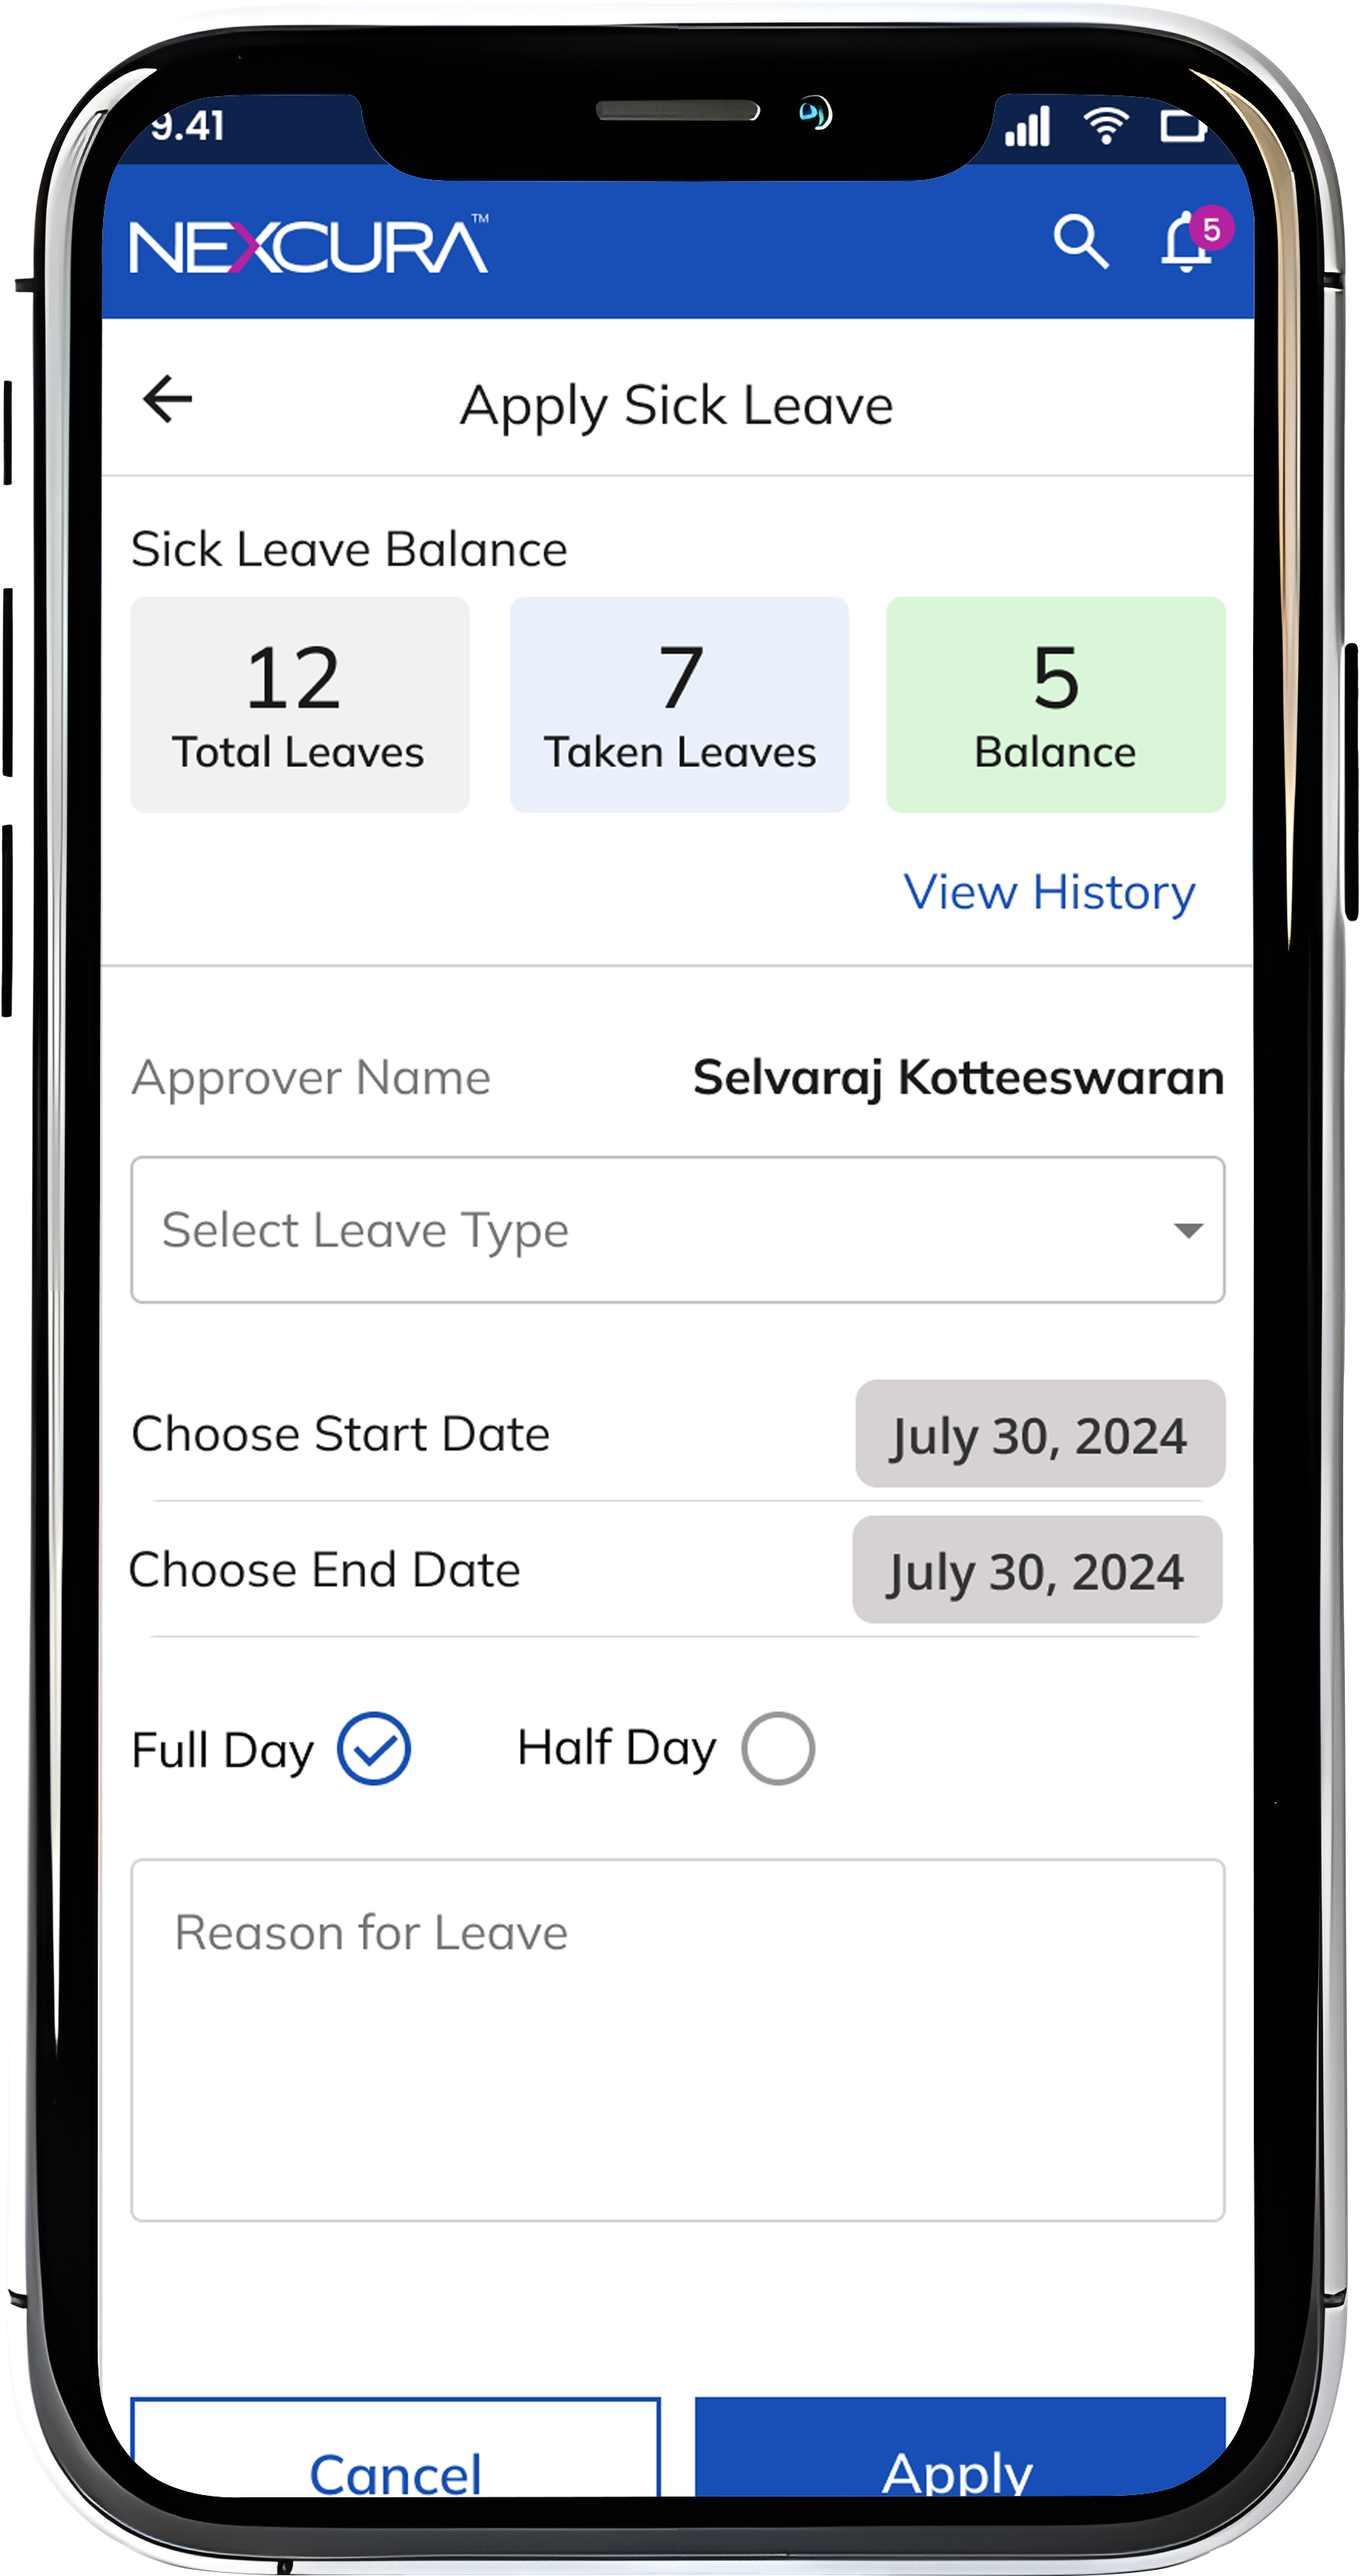
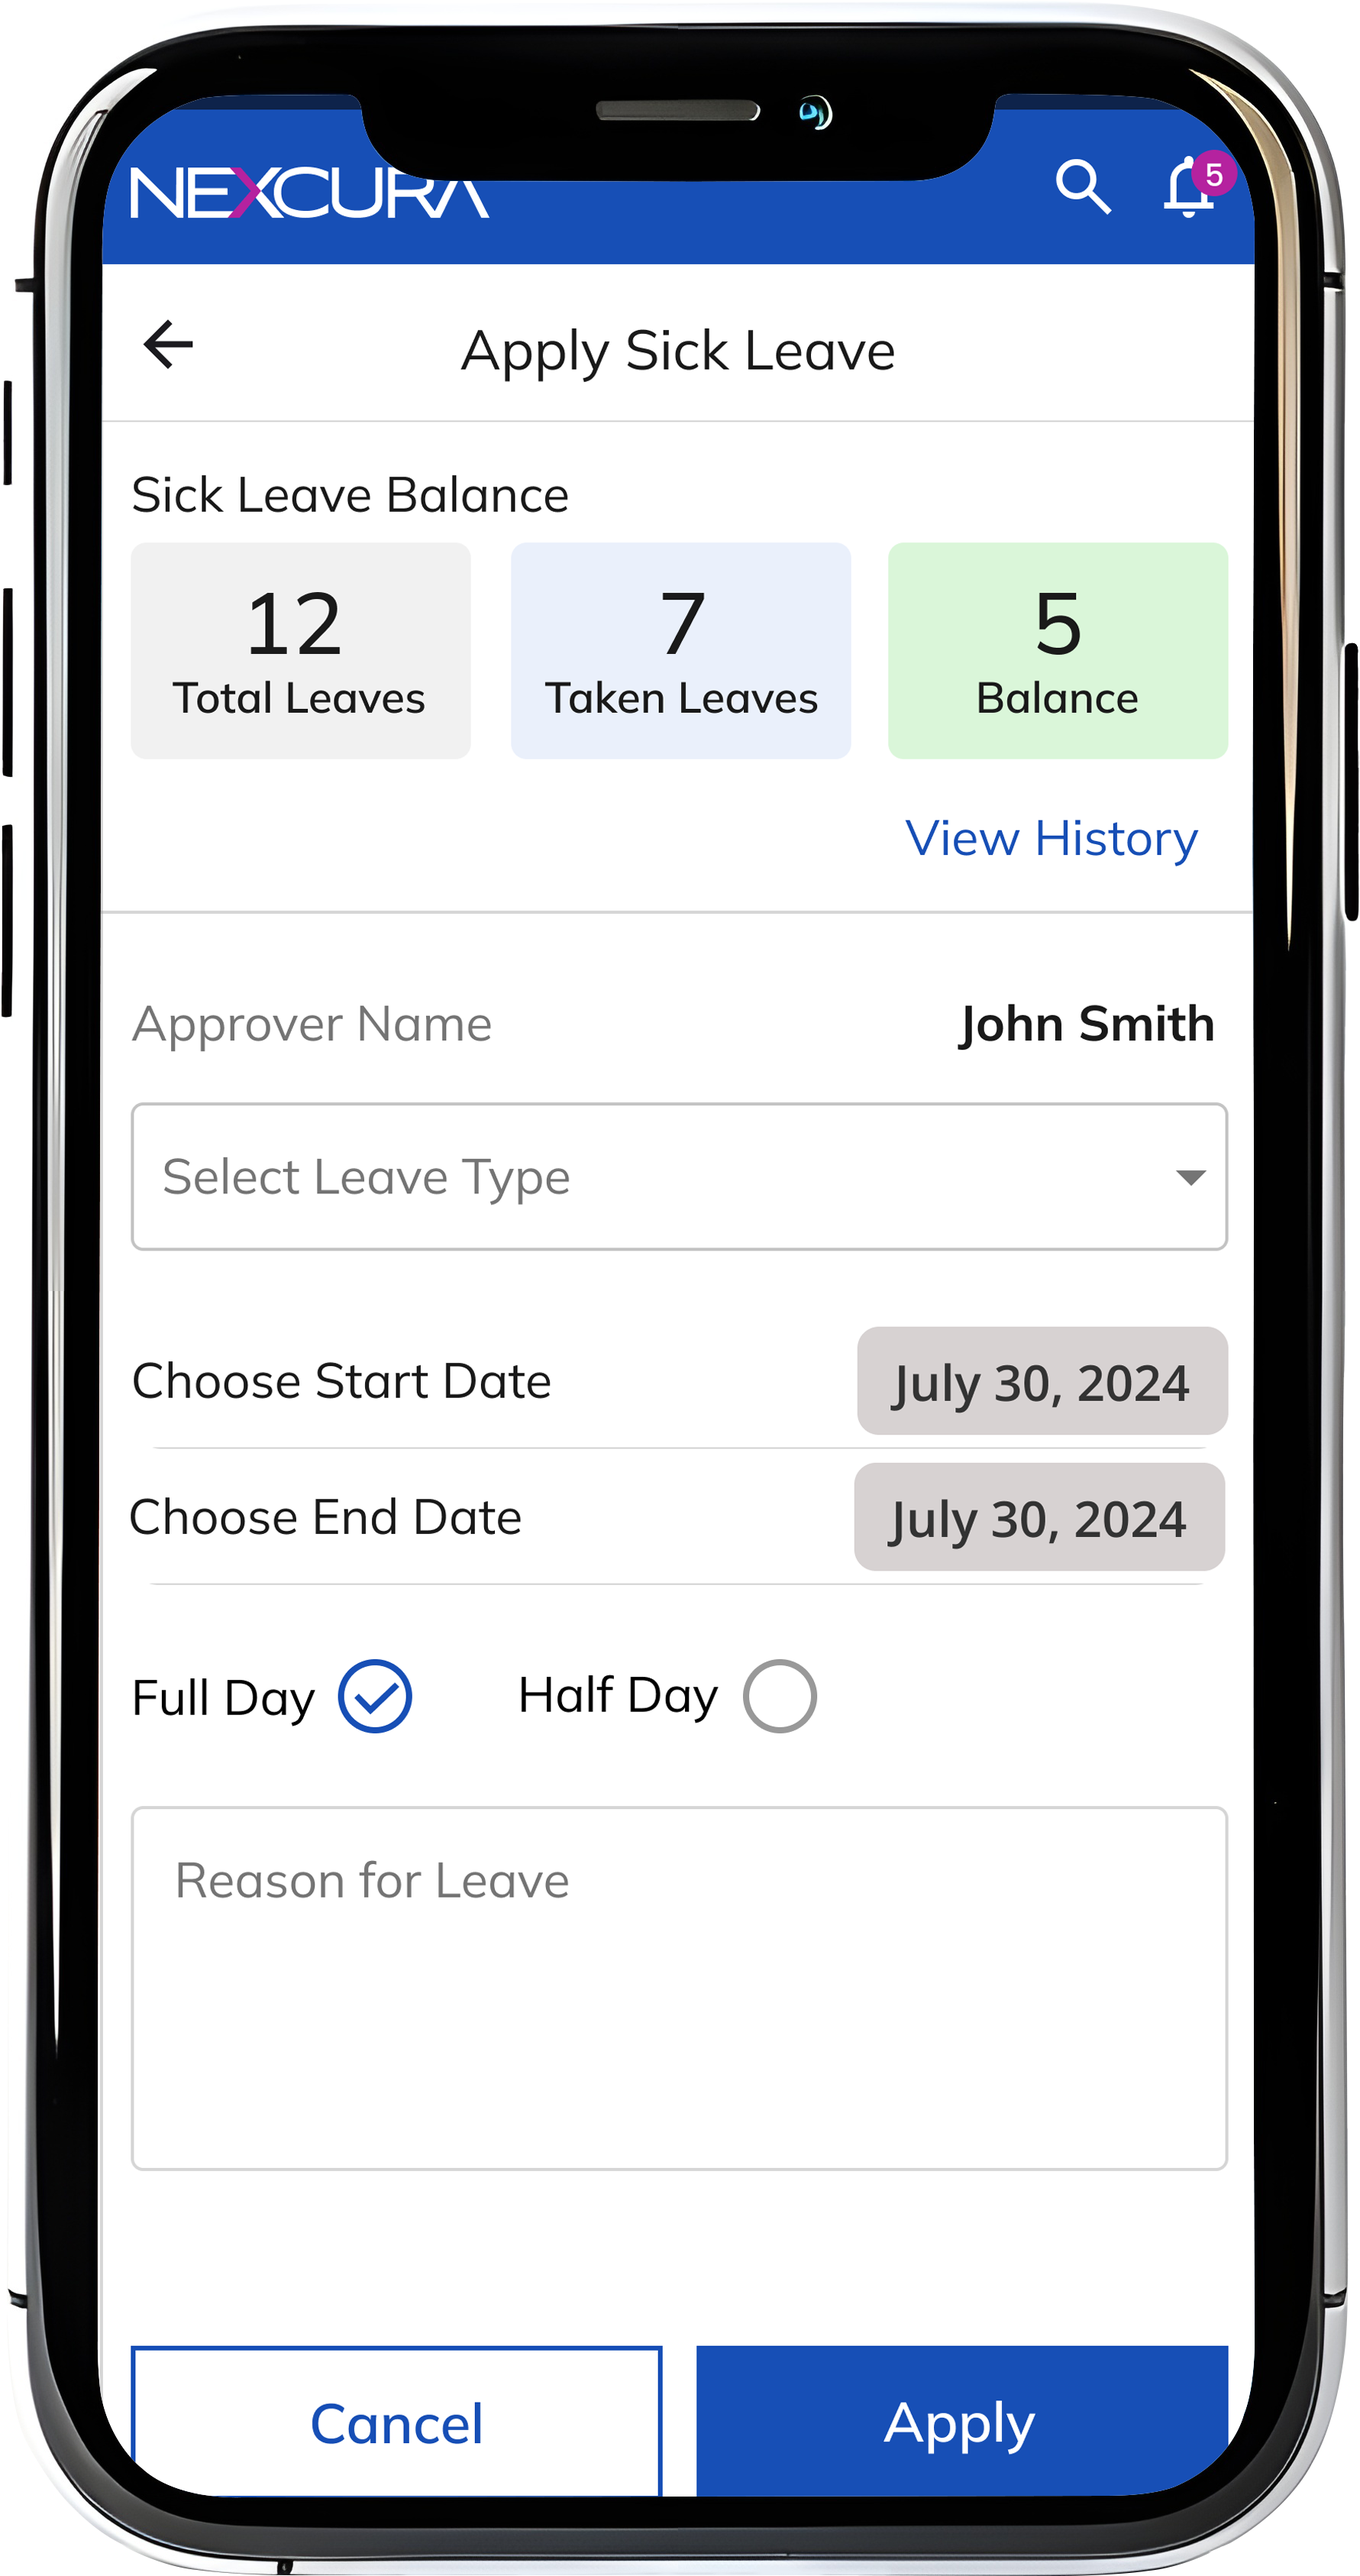
fixed the event and job issues also added team image

diff --git a/src/data/eventsData.js b/src/data/eventsData.js
@@ -107,101 +107,81 @@ export const events = [
       "The team met with Health Care Catalysts and Investors at the conference in Atlanta.",
     link: "#",
   },
-  // Future dummy events for testing
   {
     id: 13,
-    title: "AI in Medicine 2026",
-    date: "2026-01-15",
+    title: "Executive Speaker Series with Leavitt Partners",
+    date: "2024-12-11",
     image: "/events/13.jpg",
-    description: "Conference on AI advancements in medicine.",
+    description:
+      "The HMI program hosted Leavitt Partners and GenAI Healthcare for an Executive Speaker Series.",
     link: "#",
   },
   {
     id: 14,
-    title: "Global Health Congress 2026",
-    date: "2026-02-10",
+    title: "Catealyze 2024 Conference",
+    date: "2024-12-08",
     image: "/events/14.jpg",
-    description: "International congress on global health.",
+    description:
+      "Innovative Entrepreneur Finalist for the Catealyze 2024 Conference at UT Dallas.",
     link: "#",
   },
   {
     id: 15,
-    title: "Digital Wellness Expo 2026",
-    date: "2026-03-05",
+    title: "American Tamil Entrepreneurs Association Atlanta Chapter",
+    date: "2024-11-07",
     image: "/events/15.jpg",
-    description: "Expo for digital wellness and health tech.",
+    description:
+      "Participated in the American Tamil Entrepreneurs Association Atlanta Chapter event.",
     link: "#",
   },
   {
     id: 16,
-    title: "Future Hospitals Summit",
-    date: "2026-04-12",
+    title: "Venture Dallas Conference",
+    date: "2024-10-30",
     image: "/events/16.jpg",
-    description: "Summit on the future of hospital care.",
+    description: "Attended the Venture Dallas conference in Dallas.",
     link: "#",
   },
   {
     id: 17,
-    title: "MedTech Startups 2026",
-    date: "2026-05-20",
+    title: "Healthcare Innovation Summit",
+    date: "2024-10-24",
     image: "/events/17.jpg",
-    description: "Pitch day for MedTech startups.",
+    description: "Attended the Healthcare Innovation Summit in Belo Horizonte.",
     link: "#",
   },
   {
     id: 18,
-    title: "Healthcare Data Summit",
-    date: "2026-06-18",
+    title: "Venture Atlanta Conference",
+    date: "2024-10-08",
     image: "/events/18.jpg",
-    description: "Summit on healthcare data and analytics.",
+    description:
+      "GenAI Healthcare team Ramesh S. and Kalyan Gudladana attended the Venture Atlanta Conference.",
     link: "#",
   },
   {
     id: 19,
-    title: "Virtual Care Conference",
-    date: "2026-07-09",
+    title: "Atlanta Startup Awards",
+    date: "2024-10-01",
     image: "/events/19.jpg",
-    description: "Conference on virtual care and telemedicine.",
+    description:
+      "GenAI Healthcare recognized as Best New Startup at the Atlanta Startup Awards.",
     link: "#",
   },
   {
     id: 20,
-    title: "Precision Medicine Forum",
-    date: "2026-08-14",
+    title: "HIMSS AI Healthcare Conference",
+    date: "2024-09-05",
     image: "/events/20.jpg",
-    description: "Forum on precision medicine and genomics.",
+    description: "Attended the HIMSS AI Healthcare conference in Boston.",
     link: "#",
   },
   {
     id: 21,
-    title: "HealthTech Innovations 2026",
-    date: "2026-09-22",
+    title: "AgeTech Atlanta",
+    date: "2024-06-21",
     image: "/events/21.jpg",
-    description: "Showcase of healthtech innovations.",
-    link: "#",
-  },
-  {
-    id: 22,
-    title: "Connected Health Expo",
-    date: "2026-10-11",
-    image: "/events/22.jpg",
-    description: "Expo for connected health devices and IoT.",
-    link: "#",
-  },
-  {
-    id: 23,
-    title: "Smart Hospitals Congress",
-    date: "2026-11-03",
-    image: "/events/23.jpg",
-    description: "Congress on smart hospitals and automation.",
-    link: "#",
-  },
-  {
-    id: 24,
-    title: "Global Wellness Forum 2026",
-    date: "2026-12-15",
-    image: "/events/24.jpg",
-    description: "Forum on global wellness trends and research.",
+    description: "The team presented at AgeTech Atlanta.",
     link: "#",
   },
 ];

diff --git a/src/data/jobs.js b/src/data/jobs.js
@@ -2,38 +2,20 @@
 export const jobs = [
   {
     id: 1,
-    title: "Senior Full-Stack Engineer",
-    department: "Engineering",
+    title: "Senior UI Designer",
+    department: "Design",
     type: "Full-time",
-    location: "Atlanta, GA or Remote",
+    location: "India (Remote)",
     description:
-      "You'll be instrumental in building and scaling our core NexCura platform, working with technologies like Next.js, Node.js, and Python to create robust, AI-driven health solutions.",
+      "We are seeking a Senior UI Designer to craft world-class user interfaces for our products. You will collaborate with cross-functional teams to deliver designs that are modern, accessible, and user-focused. Skills required: proficiency in Figma, Adobe XD or Sketch, strong knowledge of responsive and mobile-first design, design systems, typography, color theory, and familiarity with HTML/CSS for developer handoff. Experience with healthcare or SaaS platforms is a plus.",
   },
   {
     id: 2,
-    title: "AI/ML Research Scientist",
-    department: "Research & Development",
-    type: "Full-time",
-    location: "San Francisco, CA",
-    description:
-      "Lead pioneering research into novel ML models for predictive health analytics. You'll turn cutting-edge research into production-ready algorithms that redefine personalized care.",
-  },
-  {
-    id: 3,
     title: "Product Designer (UX/UI)",
     department: "Design",
     type: "Full-time",
-    location: "Remote",
+    location: "India (Remote)",
     description:
-      "Craft intuitive and empathetic user experiences for our diverse user base—from patients to clinicians. Your work will bridge the gap between complex AI and human-centered design.",
-  },
-  {
-    id: 4,
-    title: "DevOps Engineer",
-    department: "Engineering",
-    type: "Full-time",
-    location: "Remote",
-    description:
-      "Build and maintain our secure, scalable cloud infrastructure on AWS. Ensure high availability and compliance for our sensitive health data processing pipelines.",
+      "We are hiring a Product Designer (UX/UI) to design seamless and intuitive user experiences. You will conduct user research, create wireframes, and develop prototypes that bring complex workflows to life. Skills required: UX research, information architecture, prototyping (Figma/Sketch/Adobe XD), usability testing, interaction design, and strong communication to collaborate with product and engineering teams. Prior experience designing for AI-driven platforms or healthcare solutions is an advantage.",
   },
 ];

diff --git a/src/blogscomponents/EventsComponent.jsx b/src/blogscomponents/EventsComponent.jsx
@@ -121,7 +121,7 @@ const Pagination = ({ currentPage, totalPages, onPageChange }) => {
         size="sm"
         onClick={() => onPageChange(currentPage - 1)}
         disabled={currentPage === 1}
-        className="p-2 h-10 w-10 border-gray-200 hover:border-blue-300 hover:bg-blue-50 disabled:opacity-50 disabled:cursor-not-allowed transition-all duration-200"
+        className="p-2 h-10 w-10 border-gray-200 hover:border-blue-300 hover:bg-blue-50 disabled:opacity-50 disabled:cursor-not-allowed transition-all duration-200 cursor-pointer"
       >
         <ChevronLeft className="w-4 h-4" />
       </Button>
@@ -156,7 +156,7 @@ const Pagination = ({ currentPage, totalPages, onPageChange }) => {
         size="sm"
         onClick={() => onPageChange(currentPage + 1)}
         disabled={currentPage === totalPages}
-        className="p-2 h-10 w-10 border-gray-200 hover:border-blue-300 hover:bg-blue-50 disabled:opacity-50 disabled:cursor-not-allowed transition-all duration-200"
+        className="p-2 h-10 w-10 border-gray-200 hover:border-blue-300 hover:bg-blue-50 disabled:opacity-50 disabled:cursor-not-allowed transition-all duration-200 cursor-pointer"
       >
         <ChevronRight className="w-4 h-4" />
       </Button>

diff --git a/src/homecomponents/Hero.jsx b/src/homecomponents/Hero.jsx
@@ -47,7 +47,7 @@ function Hero() {
               to help you live better. Your health, your data, your control, and
               together, we shape a healthier future.
             </p>
-            <div className="flex mt-8">
+            {/* <div className="flex mt-8">
               <button
                 className="flex items-center justify-center gap-2 bg-primary text-base py-2 px-6 text-white hover:bg-secondary cursor-pointer transition-all duration-300"
                 onClick={openVideoModal}
@@ -55,7 +55,7 @@ function Hero() {
                 <span>Watch Video</span>
                 <CirclePlay />
               </button>
-            </div>
+            </div> */}
           </div>
         </div>
         <HeroBottomBar />

diff --git a/src/aboutcomponents/TeamMosaic.jsx b/src/aboutcomponents/TeamMosaic.jsx
@@ -37,8 +37,7 @@ const TeamMosaic = () => {
       id: "robin",
       name: "Robin Hackney",
       title: "Chief Marketing Officer",
-      image:
-        "https://images.unsplash.com/photo-1507003211169-0a1dd7228f2d?w=400&h=400&fit=crop&crop=face",
+      image: "/team/robin.png",
       bio: "Building brand presence and market strategy",
       color: "from-orange-500 to-red-600",
     },

diff --git a/src/app/join-us/page.jsx b/src/app/join-us/page.jsx
@@ -95,7 +95,7 @@ export default function CareersPage() {
 
       {/* Jobs Section */}
       <section id="jobs-section" className="py-20 bg-gray-50">
-        <div className="max-w-4xl mx-auto px-6">
+        <div className="max-w-6xl mx-auto px-6">
           <motion.div
             initial={{ opacity: 0, y: 20 }}
             whileInView={{ opacity: 1, y: 0 }}
